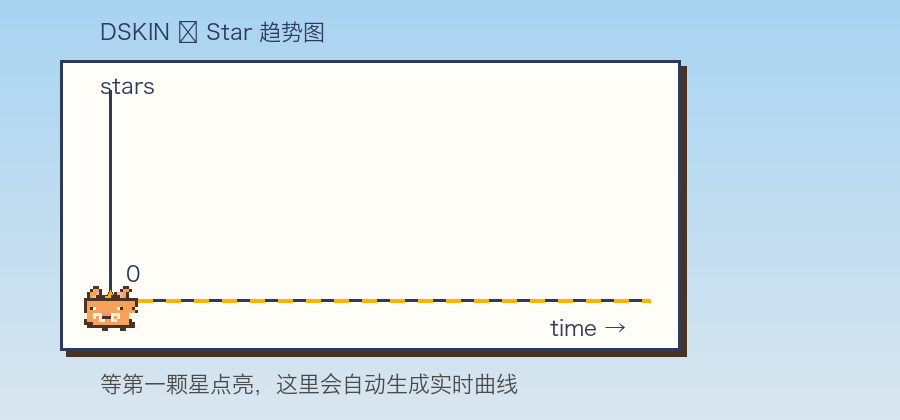
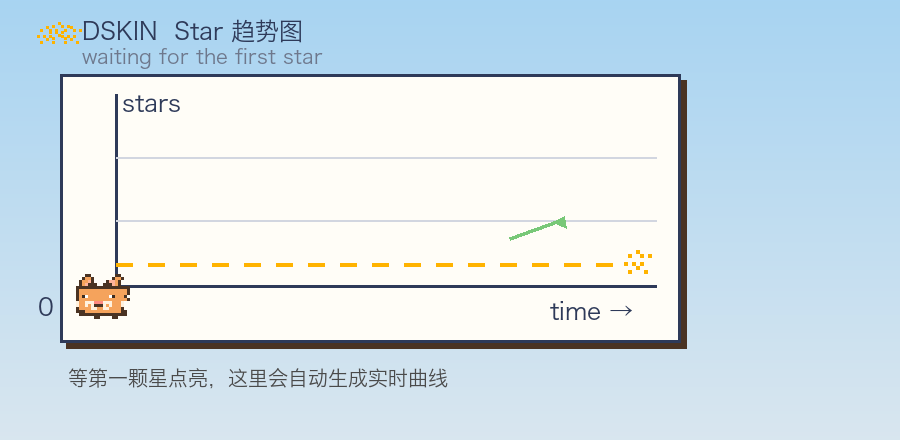
README chart: fix star-trend placeholder — drawn pixel stars (no tofu emoji), floating dashed line + star marker, diagonal growth arrow, '0' label clear of the cat

Changed region(s): [[0.0311, 0.031, 0.7778, 0.9595]]

diff --git a/scripts/gen-startrend.py b/scripts/gen-startrend.py
@@ -1,46 +1,63 @@
 #!/usr/bin/env python3
 """Generate a pixel-style star-trend placeholder chart (assets/star-trend.png).
 GitHub restricted the stargazers API, so live charts cannot render for a
-0-star repo; this cute placeholder keeps the section visible until the first
-star arrives, then it can be swapped for the live star-history embed."""
+0-star repo; this placeholder keeps the section visible until the first star
+arrives. Uses drawn pixel art (no emoji — they render as tofu in PIL)."""
 from PIL import Image, ImageDraw, ImageFont
 
-W, H = 900, 420
+W, H = 900, 440
 INK = (46, 58, 89)
 SKY = (168, 212, 242)
+CJK = ImageFont.truetype('/System/Library/Fonts/Hiragino Sans GB.ttc', 24)
+CJK_SMALL = ImageFont.truetype('/System/Library/Fonts/Hiragino Sans GB.ttc', 20)
+
 img = Image.new('RGB', (W, H))
 d = ImageDraw.Draw(img)
 for y in range(H):
     t = y / H
     d.line([(0, y), (W, y)], fill=tuple(int(SKY[i] + (238 - SKY[i]) * t * 0.7) for i in range(3)))
 
-# chart panel
-px, py, pw, ph = 60, 60, 620, 290
+# ---- chart panel ----
+px, py, pw, ph = 60, 74, 620, 268
 d.rectangle([px + 6, py + 6, px + pw + 6, py + ph + 6], fill=(74, 51, 35))
 d.rectangle([px, py, px + pw, py + ph], fill=(255, 253, 247), outline=INK, width=3)
+
 # axes
-d.line([(px + 50, py + ph - 50), (px + pw - 30, py + ph - 50)], fill=INK, width=3)
-d.line([(px + 50, py + 30), (px + 50, py + ph - 50)], fill=INK, width=3)
-# dashed "waiting for the first star" line
-dash = 14
-x = px + 50
-y0 = py + ph - 50
-while x < px + pw - 30:
-    d.line([(x, y0), (min(x + dash, px + pw - 30), y0)], fill=(255, 179, 0), width=4)
-    x += dash * 2
-# star marker at origin
-d.polygon([(px + 50, y0 - 12), (px + 53, y0 - 5), (px + 61, y0 - 5), (px + 55, y0), (px + 57, y0 + 8),
-           (px + 50, y0 + 4), (px + 43, y0 + 8), (px + 45, y0), (px + 39, y0 - 5), (px + 47, y0 - 5)],
-          fill=(255, 179, 0), outline=INK)
+ax0, ay0 = px + 56, py + ph - 56
+d.line([(ax0, py + 20), (ax0, ay0)], fill=INK, width=3)          # y axis
+d.line([(ax0, ay0), (px + pw - 24, ay0)], fill=INK, width=3)     # x axis
+# subtle gridlines (2)
+for g in (0.33, 0.66):
+    gy = py + 20 + (ay0 - py - 20) * g
+    d.line([(ax0, gy), (px + pw - 24, gy)], fill=(210, 214, 224), width=2)
+
 # axis labels
-CJK = ImageFont.truetype('/System/Library/Fonts/Hiragino Sans GB.ttc', 22)
-d.text((px + 40, py + 14), 'stars', font=CJK, fill=INK)
-d.text((px + pw - 130, py + ph - 34), 'time →', font=CJK, fill=INK)
-d.text((px + 66, py + ph - 88), '0', font=CJK, fill=INK)
-# title text
-d.text((px + 40, py - 40), 'DSKIN ⭐ Star 趋势图', font=CJK, fill=INK)
-d.text((px + 40, py + ph + 22), '等第一颗星点亮，这里会自动生成实时曲线', font=CJK, fill=(74, 74, 74))
-# a small pixel cat sitting on the origin
+d.text((ax0 + 6, py + 16), 'stars', font=CJK, fill=INK)
+d.text((px + pw - 130, ay0 + 12), 'time →', font=CJK, fill=INK)
+d.text((ax0 - 78, ay0 + 8), '0', font=CJK, fill=INK)
+
+# ---- the "waiting" data line: dashed yellow, floating above the axis ----
+base = ay0 - 22
+dash = 16
+x = ax0
+while x < px + pw - 60:
+    d.line([(x, base), (min(x + dash, px + pw - 60), base)], fill=(255, 179, 0), width=4)
+    x += dash * 2
+
+# star marker at the end of the line (drawn pixel star, not an emoji)
+def pixel_star(cx, cy, s, fill):
+    pts = [(2, 0), (3, 1), (5, 1), (3, 3), (4, 5), (2, 4), (0, 5), (1, 3), (-1, 3), (0, 1)]
+    for (ox, oy) in pts:
+        d.rectangle([cx + ox * s, cy + oy * s, cx + ox * s + s - 1, cy + oy * s + s - 1], fill=fill)
+
+pixel_star(px + pw - 52, base - 14, 4, (255, 179, 0))
+d.rectangle([px + pw - 52, base - 14, px + pw - 52 + 2, base - 14 + 2], fill=(255, 255, 255))
+
+# a little rising hint arrow above the line (diagonal up-right = growth)
+d.line([(px + pw - 170, base - 26), (px + pw - 120, base - 44)], fill=(120, 200, 120), width=4)
+d.polygon([(px + pw - 116, base - 48), (px + pw - 114, base - 36), (px + pw - 128, base - 42)], fill=(120, 200, 120))
+
+# ---- small pixel cat sitting at the origin ----
 CAT = [
     '...KK........KK....', '..KFFK......KFFK...', '.KFFAK....KAAFK....',
     '.KFAKKK..KKKAFK....', 'KKKKKKKKKKKKKKKKKK.', 'KFFFFFFFFFFFFFFFFK.',
@@ -50,10 +67,22 @@ CAT = [
 ]
 PAL = {'K': (74, 51, 35), 'F': (245, 163, 92), 'E': (61, 43, 31), 'w': (255, 255, 255),
        'A': (255, 179, 154), 'N': (255, 138, 128), 'M': (255, 241, 222), 'W': (255, 241, 222), 'B': (255, 241, 222)}
-cx, cy, s = px + 24, y0 - 14, 3
+cx, cy, s = ax0 - 40, ay0 - 12, 3
 for i, row in enumerate(CAT):
     for j, ch in enumerate(row):
         if ch in PAL:
             d.rectangle([cx + j * s, cy + i * s, cx + j * s + s - 1, cy + i * s + s - 1], fill=PAL[ch])
+
+# ---- title with drawn pixel stars (no emoji) ----
+pixel_star(40, 26, 3, (255, 179, 0))
+pixel_star(52, 22, 3, (255, 179, 0))
+pixel_star(64, 26, 3, (255, 179, 0))
+d.text((82, 18), 'DSKIN  Star 趋势图', font=CJK, fill=INK)
+d.text((82, 46), 'waiting for the first star', font=CJK_SMALL, fill=(110, 120, 140))
+
+# ---- caption ----
+d.text((px + 8, py + ph + 26), '等第一颗星点亮，这里会自动生成实时曲线',
+       font=CJK_SMALL, fill=(74, 74, 74))
+
 img.save('/Users/vitamin/Desktop/deepseektest/assets/star-trend.png')
 print('saved star-trend.png')
